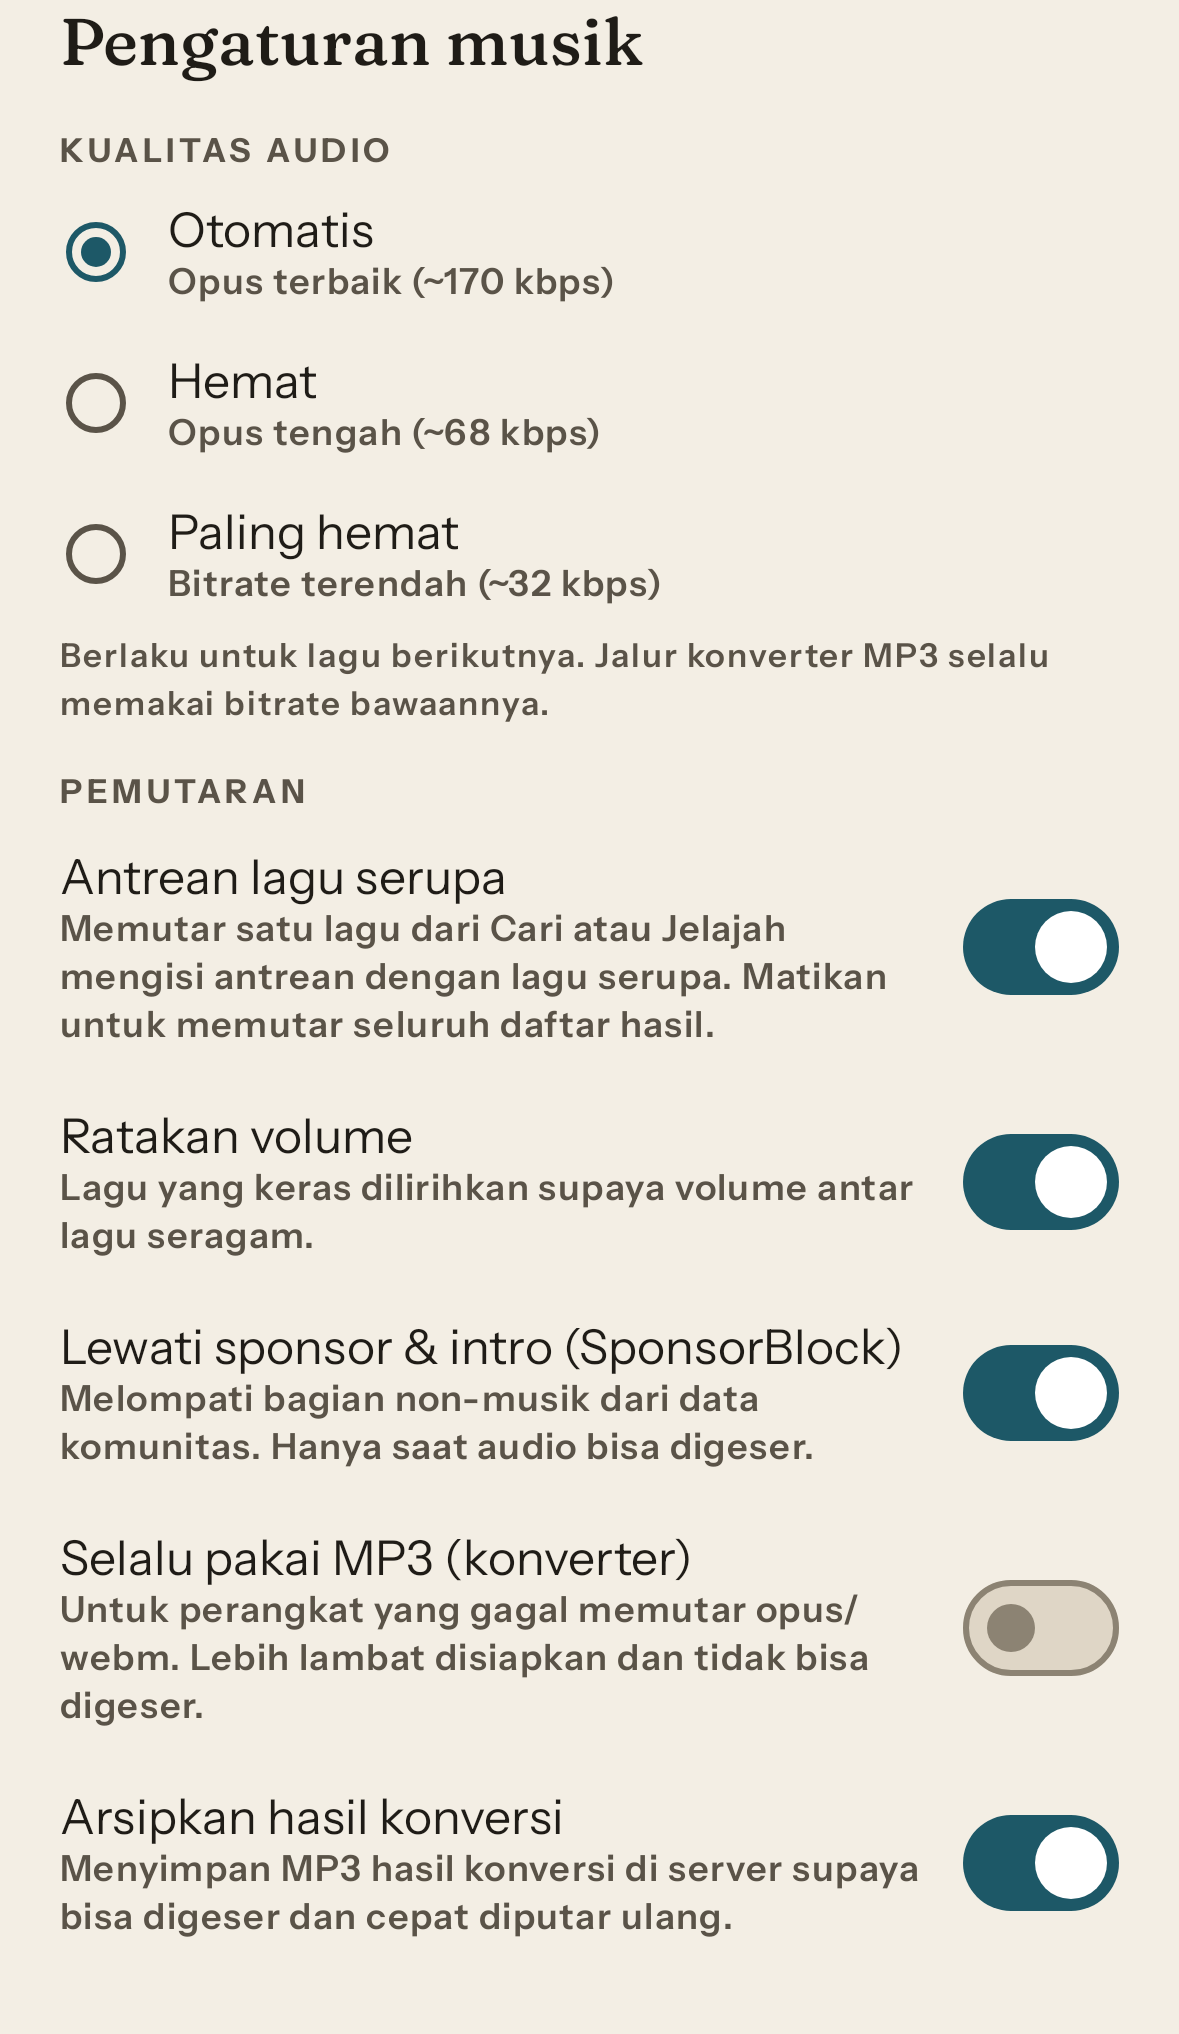
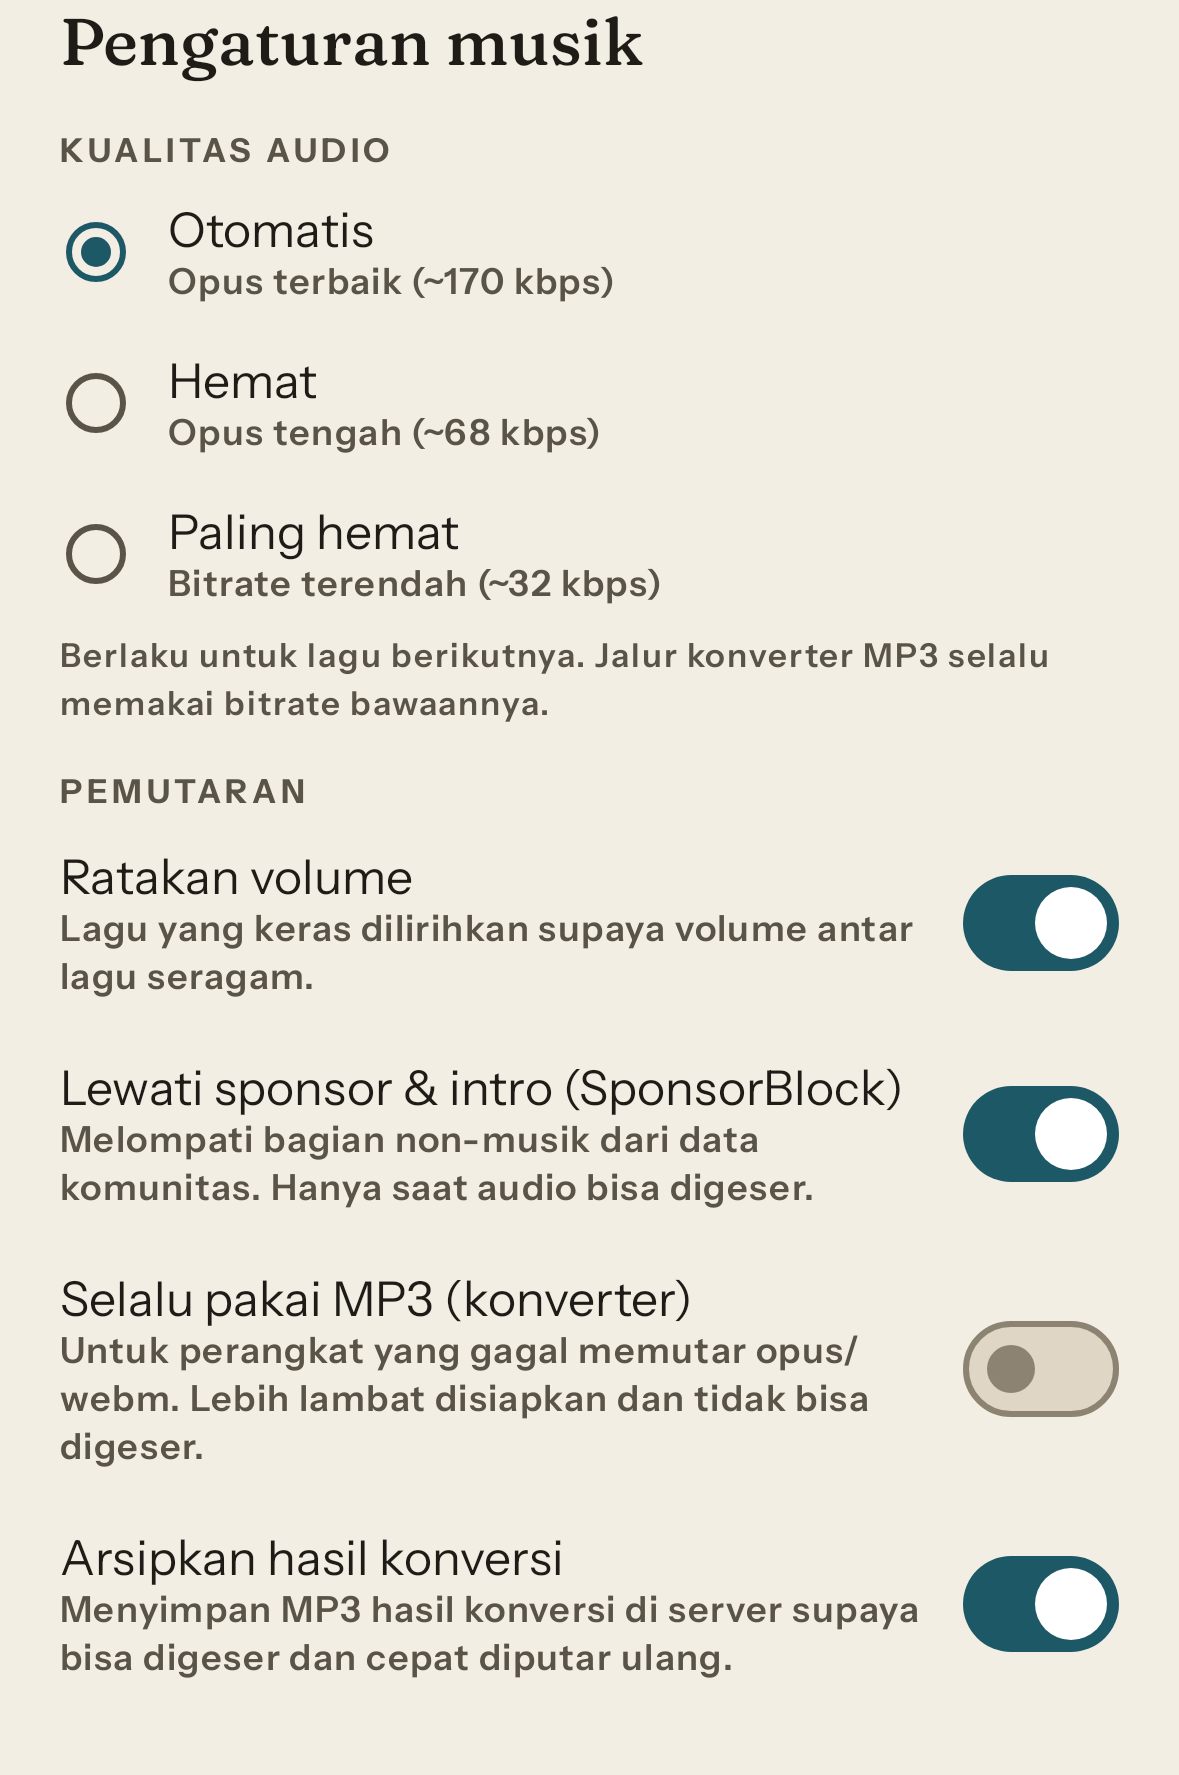
feat(musik): hasil pencarian tidak pernah masuk antrean
- Mengetuk lagu, hasil teratas, atau episode dari Cari (dan lagu di rak Jelajah) hanya memutar
  item itu; antrean lalu diisi lagu serupa dari upNext now-playing
- Sakelar "Antrean lagu serupa" dihapus (perilaku ini sekarang tetap)
- Album/playlist/podcast/lagu teratas artis tetap diputar urut
- Tes ViewModel: setelah mencari, memutar hasil ke-2 / hasil teratas / episode hanya
  memasukkan item itu ke antrean

diff --git a/app/src/test/kotlin/com/rosyidputrar/taskify/MusicQueueFromSearchTest.kt b/app/src/test/kotlin/com/rosyidputrar/taskify/MusicQueueFromSearchTest.kt
@@ -1,0 +1,70 @@
+package com.rosyidputrar.taskify
+
+import android.os.Looper
+import androidx.test.core.app.ApplicationProvider
+import androidx.test.ext.junit.runners.AndroidJUnit4
+import com.rosyidputrar.taskify.core.domain.media.SearchFilter
+import com.rosyidputrar.taskify.core.domain.media.SearchResults
+import com.rosyidputrar.taskify.core.domain.media.Song
+import com.rosyidputrar.taskify.core.domain.media.TopResult
+import com.rosyidputrar.taskify.core.domain.media.Track
+import com.rosyidputrar.taskify.core.media.MusicClient
+import com.rosyidputrar.taskify.core.media.MusicPlayer
+import com.rosyidputrar.taskify.core.media.Playback
+import com.rosyidputrar.taskify.core.media.StreamOptions
+import com.rosyidputrar.taskify.feature.media.MusicViewModel
+import com.rosyidputrar.taskify.feature.media.OnlineFlow
+import kotlinx.coroutines.CompletableDeferred
+import kotlinx.coroutines.flow.flowOf
+import org.junit.Test
+import org.junit.runner.RunWith
+import org.robolectric.Shadows.shadowOf
+import kotlin.test.assertEquals
+
+/** Hasil pencarian tidak pernah masuk antrean: yang diputar hanya lagu yang diketuk (+ lagu serupa). */
+@RunWith(AndroidJUnit4::class)
+class MusicQueueFromSearchTest {
+    private fun song(id: String) = Song(id.padEnd(11, 'x'), "Lagu $id", "Artis", "3.05", emptyList(), durationSeconds = 185)
+    private val results = listOf(song("a"), song("b"), song("c"), song("d"))
+    private val episode = song("ep")
+    private val similar = listOf(song("s1"), song("s2"))
+
+    private inner class Fake : MusicClient("https://music.test", { "t" }) {
+        val pending = CompletableDeferred<Unit>()
+        override suspend fun search(query: String, filter: SearchFilter) =
+            SearchResults(top = TopResult("Lagu c", results[2].videoId, listOf("Lagu", "Artis", "3.05"), emptyList()), songs = results, episodes = listOf(episode))
+        override suspend fun playback(videoId: String, options: StreamOptions, withTrack: Boolean, onProgress: (Int, String) -> Unit): Playback {
+            pending.await() // audio tidak pernah siap di tes ini; yang diuji hanya isi antrean
+            error("tidak terjangkau")
+        }
+        override suspend fun track(videoId: String, includeLyrics: Boolean) = Track(videoId, "", similar)
+    }
+
+    private fun setUp(): Pair<MusicViewModel, MusicPlayer> {
+        val fake = Fake()
+        val player = MusicPlayer(ApplicationProvider.getApplicationContext(), fake)
+        val vm = MusicViewModel(player, fake, OnlineFlow { flowOf(true) })
+        vm.setQuery("lagu")
+        vm.search()
+        shadowOf(Looper.getMainLooper()).idle()
+        return vm to player
+    }
+
+    @Test fun tappingASearchResultQueuesOnlyThatSong() {
+        val (vm, player) = setUp()
+        vm.play(1)
+        shadowOf(Looper.getMainLooper()).idle()
+        assertEquals(listOf(results[1]), player.state.value.ordered, "hasil pencarian lain tidak boleh masuk antrean")
+        assertEquals(results[1].videoId, player.state.value.similarSeed, "antrean akan diisi lagu serupa")
+    }
+
+    @Test fun topResultAndEpisodeAlsoQueueOnlyThemselves() {
+        val (vm, player) = setUp()
+        vm.playTop(vm.state.value.search.results.top ?: TopResult("Lagu c", results[2].videoId, listOf("Lagu", "Artis", "3.05"), emptyList()))
+        shadowOf(Looper.getMainLooper()).idle()
+        assertEquals(listOf(results[2].videoId), player.state.value.ordered.map { it.videoId })
+        vm.playSong(episode)
+        shadowOf(Looper.getMainLooper()).idle()
+        assertEquals(listOf(episode), player.state.value.ordered)
+    }
+}

diff --git a/feature/media/src/main/kotlin/com/rosyidputrar/taskify/feature/media/MusicViewModel.kt b/feature/media/src/main/kotlin/com/rosyidputrar/taskify/feature/media/MusicViewModel.kt
@@ -118,9 +118,8 @@ interface MusicActions {
     /** Putar lagu ke-[index] dari daftar lagu hasil pencarian. */
     fun play(index: Int) {}
     fun playSongs(songs: List<Song>, index: Int) {}
-    /** Lagu tunggal dari hasil cari/Jelajah: antrean lagu serupa (atau seluruh [list] bila dimatikan). */
-    fun playSong(list: List<Song>, index: Int) {}
-    fun toggleSimilarQueue() {}
+    /** Lagu tunggal dari hasil cari/Jelajah: hanya lagu itu + lagu serupa — hasil lain TIDAK masuk antrean. */
+    fun playSong(song: Song) {}
     fun playTop(top: TopResult) {}
     fun togglePlay() {}
     fun next() {}
@@ -306,15 +305,12 @@ class MusicViewModel(
 
     // ------------------------------------------------------------------ pemutaran
 
-    override fun play(index: Int) = playSong(local.value.search.results.songs, index)
+    override fun play(index: Int) { local.value.search.results.songs.getOrNull(index)?.let(::playSong) }
     override fun playSongs(songs: List<Song>, index: Int) = player.playQueue(songs, index)
-    override fun playSong(list: List<Song>, index: Int) {
-        val song = list.getOrNull(index) ?: return
-        if (player.settings.value.similarQueue) player.playSimilar(song) else player.playQueue(list, index)
-    }
+    override fun playSong(song: Song) = player.playSimilar(song)
     override fun playTop(top: TopResult) {
         top.toSong()?.let { song ->
-            playSong(listOf(song) + local.value.search.results.songs.filter { s -> s.videoId != song.videoId }, 0); return
+            playSong(song); return
         }
         // Hasil teratas bukan lagu: buka artis/album yang cocok di daftar hasil.
         val r = local.value.search.results
@@ -512,7 +508,6 @@ class MusicViewModel(
     override fun toggleSponsorBlock() = player.updateSettings { it.copy(sponsorBlock = !it.sponsorBlock) }
     override fun toggleForceMp3() = player.updateSettings { it.copy(forceMp3 = !it.forceMp3) }
     override fun toggleArchive() = player.updateSettings { it.copy(archive = !it.archive) }
-    override fun toggleSimilarQueue() = player.updateSettings { it.copy(similarQueue = !it.similarQueue) }
     override fun setSleep(minutes: Int?) = player.setSleep(minutes)
     override fun sleepEndOfSong() = player.setSleep(null, endOfSong = true)
 

diff --git a/feature/media/src/main/kotlin/com/rosyidputrar/taskify/feature/media/MusicScreen.kt b/feature/media/src/main/kotlin/com/rosyidputrar/taskify/feature/media/MusicScreen.kt
@@ -357,8 +357,8 @@ private fun LazyListScope.searchTab(state: MusicUiState, actions: MusicActions) 
     if (r.podcasts.isNotEmpty()) cardRow("podcasts", if (all) "Podcast" else null, r.podcasts.map { p -> CardItem(p.browseId, p.title, p.author, p.cover) { actions.open(BrowseTarget.Podcast(p.browseId, p.title)) } }, grid = !all)
     if (r.episodes.isNotEmpty()) {
         if (all) item(key = "h-episodes") { SectionTitle("Episode") }
-        itemsIndexed(r.episodes, key = { _, e -> "e-" + e.videoId }) { i, e ->
-            SongRow(e, playing = state.player.current?.videoId == e.videoId, onClick = { actions.playSongs(r.episodes, i) }, modifier = Modifier.animateItem())
+        itemsIndexed(r.episodes, key = { _, e -> "e-" + e.videoId }) { _, e ->
+            SongRow(e, playing = state.player.current?.videoId == e.videoId, onClick = { actions.playSong(e) }, modifier = Modifier.animateItem())
         }
     }
     if (s.cursor != null) item(key = "more") {
@@ -533,7 +533,7 @@ private class HapticMusicActions(private val a: MusicActions, private val h: Tas
     override fun setFilter(f: SearchFilter) { h.tick(); a.setFilter(f) }
     override fun play(index: Int) { h.tap(); a.play(index) }
     override fun playSongs(songs: List<Song>, index: Int) { h.tap(); a.playSongs(songs, index) }
-    override fun playSong(list: List<Song>, index: Int) { h.tap(); a.playSong(list, index) }
+    override fun playSong(song: Song) { h.tap(); a.playSong(song) }
     override fun playPage(shuffle: Boolean) { h.tap(); a.playPage(shuffle) }
     override fun playStation(station: com.rosyidputrar.taskify.core.domain.media.RadioStation) { h.tap(); a.playStation(station) }
     override fun togglePlay() { h.tap(); a.togglePlay() }

diff --git a/feature/media/src/main/kotlin/com/rosyidputrar/taskify/feature/media/MusicSettings.kt b/feature/media/src/main/kotlin/com/rosyidputrar/taskify/feature/media/MusicSettings.kt
@@ -79,8 +79,6 @@ fun MusicSettingsContent(state: MusicUiState, actions: MusicActions) {
         }
         Text("Berlaku untuk lagu berikutnya. Jalur konverter MP3 selalu memakai bitrate bawaannya.", style = MaterialTheme.typography.labelSmall, color = MaterialTheme.colorScheme.onSurfaceVariant)
         Text("PEMUTARAN", style = TaskifyTextStyles.indexLabel, color = MaterialTheme.colorScheme.onSurfaceVariant, modifier = Modifier.padding(top = 12.dp))
-        SettingSwitch("Antrean lagu serupa", "Memutar satu lagu dari Cari atau Jelajah mengisi antrean dengan lagu serupa. Matikan untuk memutar seluruh daftar hasil.",
-            s.similarQueue, actions::toggleSimilarQueue)
         SettingSwitch("Ratakan volume", "Lagu yang keras dilirihkan supaya volume antar lagu seragam.", s.normalize, actions::toggleNormalize)
         SettingSwitch("Lewati sponsor & intro (SponsorBlock)", "Melompati bagian non-musik dari data komunitas. Hanya saat audio bisa digeser.", s.sponsorBlock, actions::toggleSponsorBlock)
         SettingSwitch("Selalu pakai MP3 (konverter)", "Untuk perangkat yang gagal memutar opus/webm. Lebih lambat disiapkan dan tidak bisa digeser.", s.forceMp3, actions::toggleForceMp3)

diff --git a/feature/media/src/main/kotlin/com/rosyidputrar/taskify/feature/media/MusicBrowse.kt b/feature/media/src/main/kotlin/com/rosyidputrar/taskify/feature/media/MusicBrowse.kt
@@ -124,8 +124,8 @@ fun LazyListScope.discovery(prefix: String, sections: List<DiscoverySection>, ac
     sections.forEachIndexed { i, section ->
         val key = "$prefix-$i"
         when (section) {
-            is DiscoverySection.Songs -> cardRow(key, section.title, section.items.mapIndexed { idx, s ->
-                CardItem(s.videoId, s.title, s.artist, s.cover) { actions.playSong(section.items, idx) }
+            is DiscoverySection.Songs -> cardRow(key, section.title, section.items.map { s ->
+                CardItem(s.videoId, s.title, s.artist, s.cover) { actions.playSong(s) }
             })
             is DiscoverySection.Albums -> cardRow(key, section.title, section.items.map { a ->
                 CardItem(a.browseId, a.title, listOf(a.artist, a.year).filter { it.isNotBlank() }.joinToString(" · "), a.cover) { actions.open(BrowseTarget.Album(a.browseId, a.title)) }

diff --git a/core/media/src/main/kotlin/com/rosyidputrar/taskify/core/media/MusicPrefs.kt b/core/media/src/main/kotlin/com/rosyidputrar/taskify/core/media/MusicPrefs.kt
@@ -34,12 +34,10 @@ class MusicPrefs(context: Context) {
             sponsorBlock = prefs.getBoolean("sponsorBlock", true),
             forceMp3 = prefs.getBoolean("forceMp3", false),
             archive = prefs.getBoolean("archive", true),
-            similarQueue = prefs.getBoolean("similarQueue", true),
         )
         set(v) {
             prefs.edit().putString("quality", v.quality.value).putBoolean("normalize", v.normalize).putBoolean("sponsorBlock", v.sponsorBlock)
-                .putBoolean("forceMp3", v.forceMp3).putBoolean("archive", v.archive)
-                .putBoolean("similarQueue", v.similarQueue).apply()
+                .putBoolean("forceMp3", v.forceMp3).putBoolean("archive", v.archive).apply()
         }
 
     fun saveQueue(snapshot: QueueSnapshot?) {

diff --git a/core/domain/src/main/kotlin/com/rosyidputrar/taskify/core/domain/media/MusicPlayback.kt b/core/domain/src/main/kotlin/com/rosyidputrar/taskify/core/domain/media/MusicPlayback.kt
@@ -97,8 +97,6 @@ data class MusicSettings(
     val forceMp3: Boolean = false,
     /** Arsipkan hasil konverter ke R2 supaya bisa di-seek & diputar ulang tanpa konversi. */
     val archive: Boolean = true,
-    /** Memutar satu lagu dari hasil cari/Jelajah → antrean diisi lagu serupa (bukan seluruh daftar hasil). */
-    val similarQueue: Boolean = true,
 )
 
 /** Pewaktu tidur: berhenti pada [endsAt] (epoch ms) atau di akhir lagu ini. */
